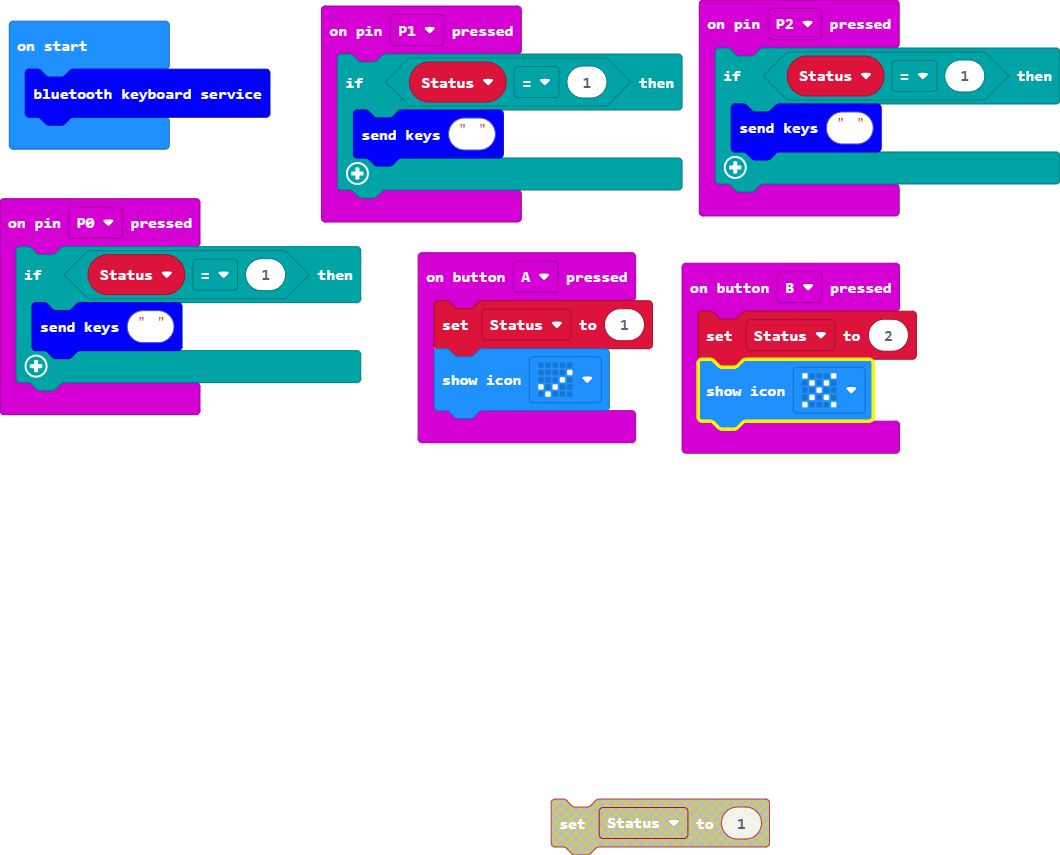
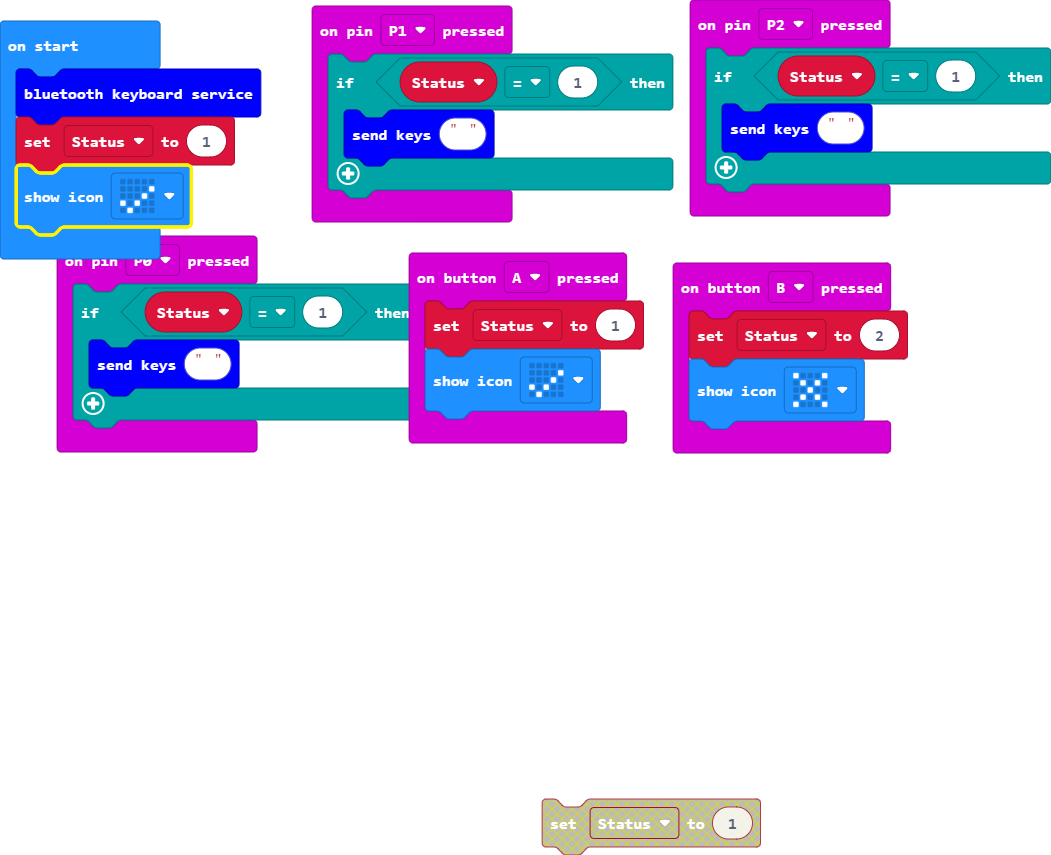
Update main.blocks, main.ts

diff --git a/main.ts b/main.ts
@@ -23,3 +23,5 @@ input.onPinPressed(TouchPin.P1, function () {
 })
 let Status = 0
 keyboard.startKeyboardService()
+Status = 1
+basic.showIcon(IconNames.Yes)
